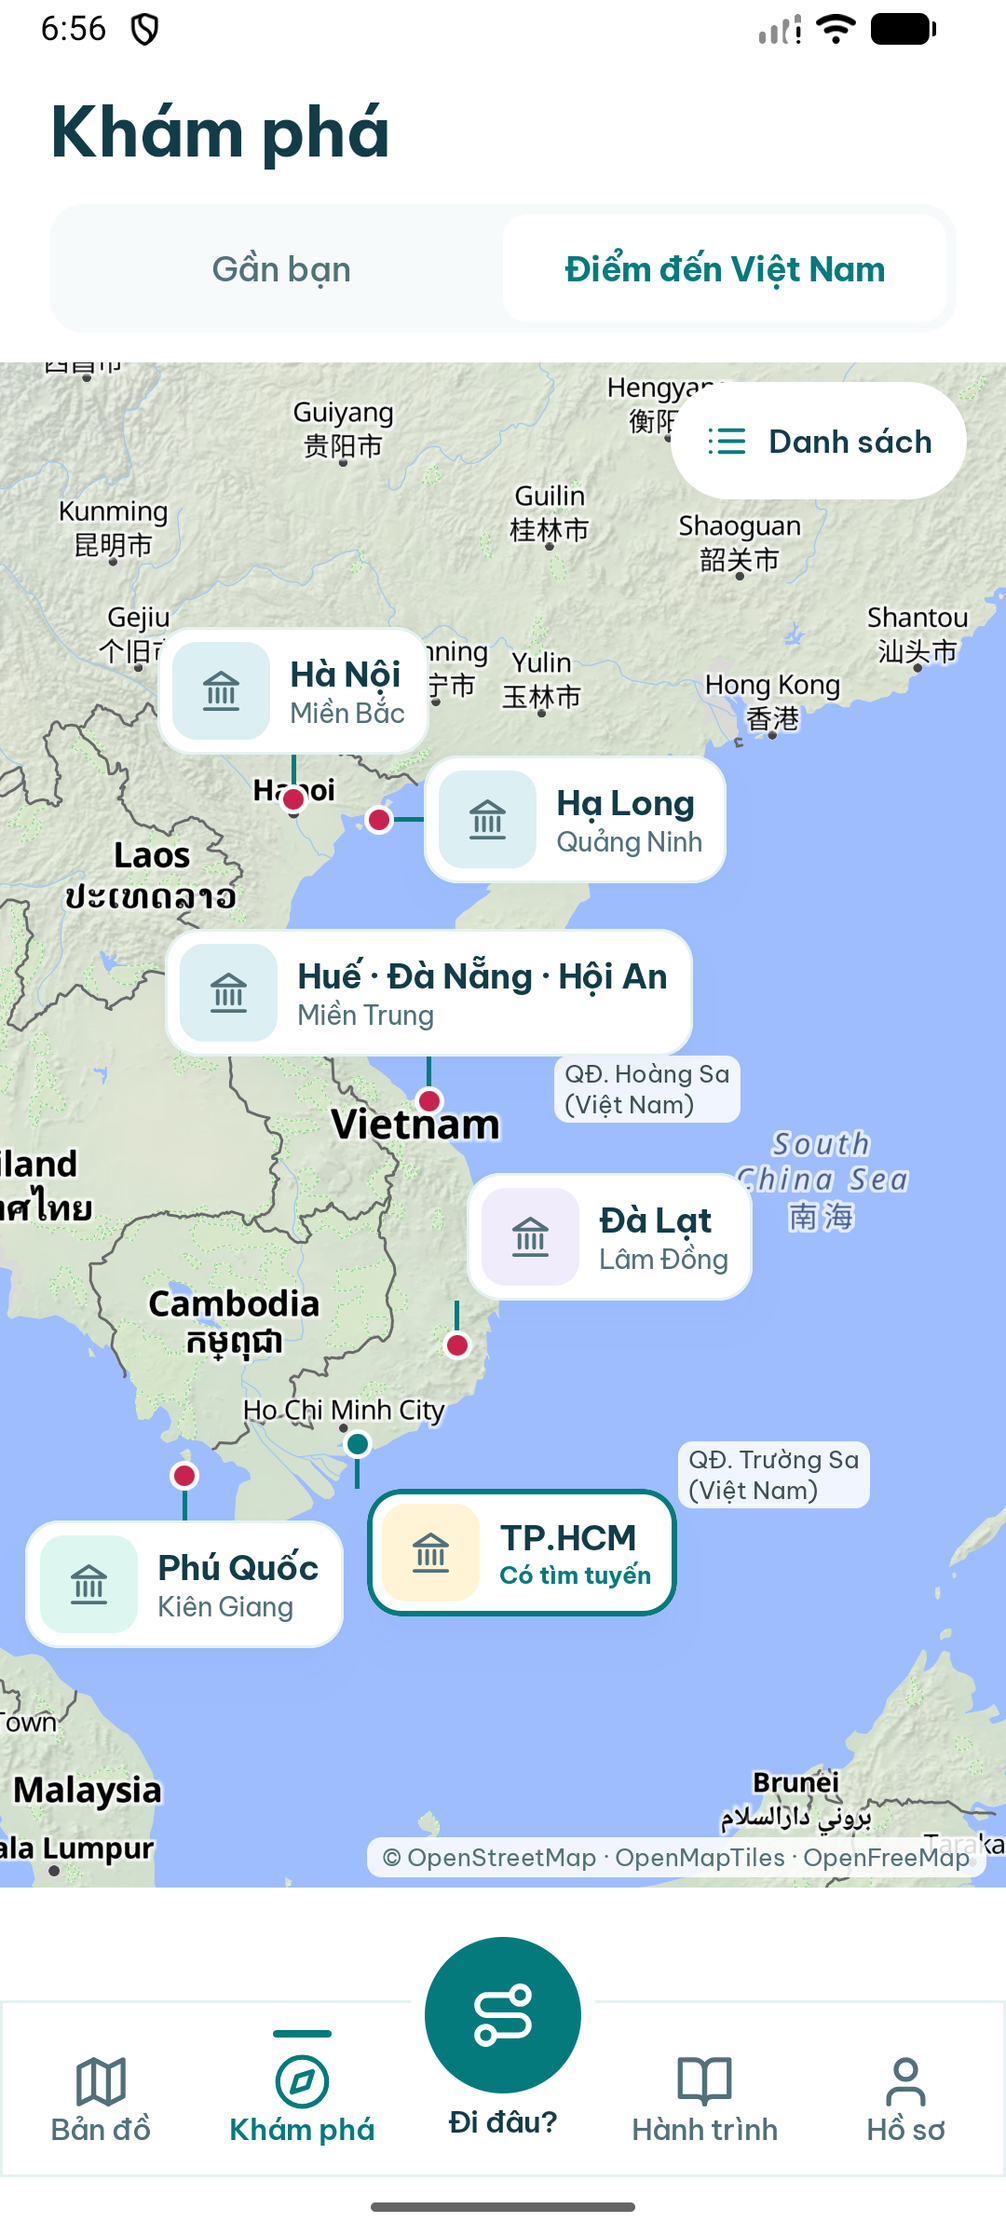
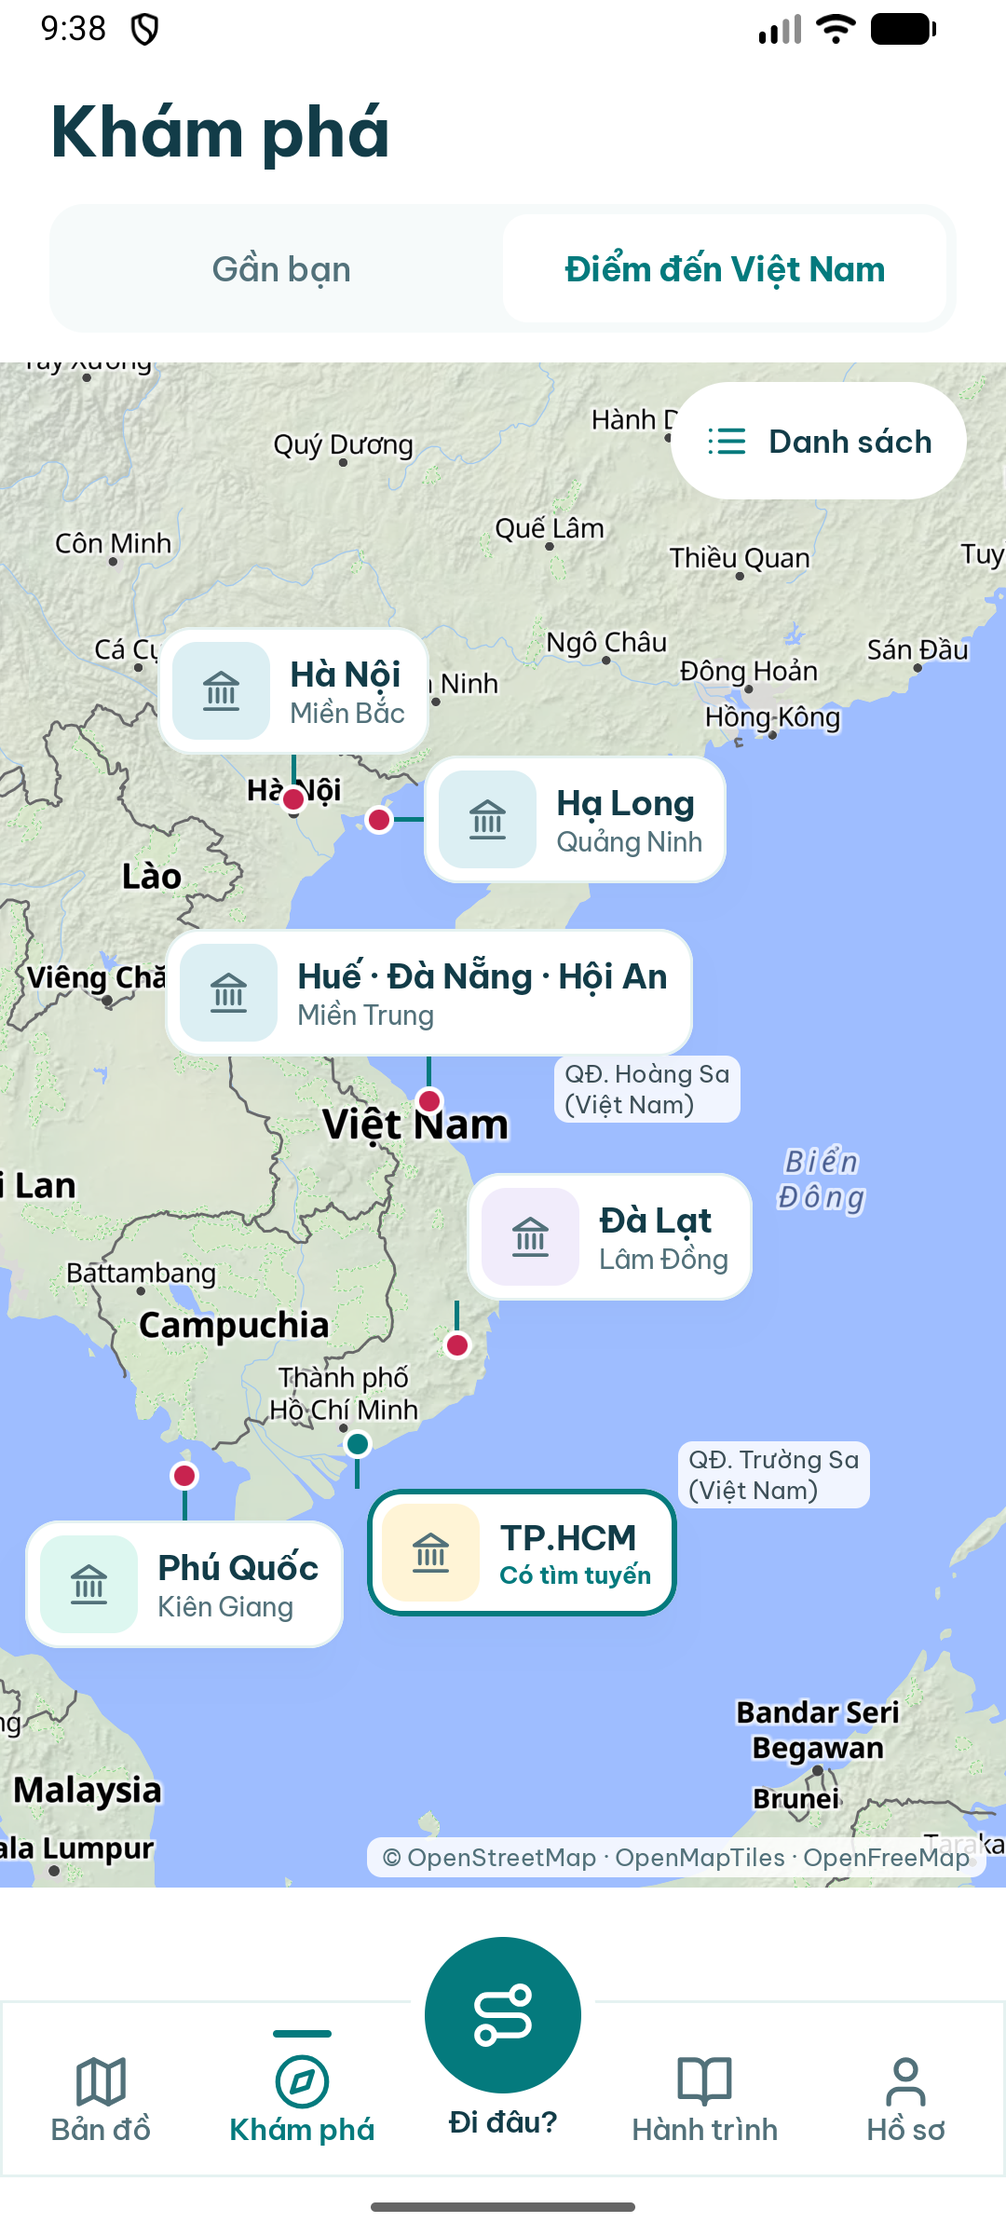
feat(mobile): Vietnamese basemap labels (Biển Đông); map tab no longer draws a found route
Bundled copy of the OpenFreeMap liberty style whose name labels prefer name:vi. MapHome stops passing the selected route and destination to the map. Android E2E 89/89, iOS tests 77/77.

diff --git a/mobile/shared/src/commonMain/kotlin/com/gowander/route/RouteScreens.kt b/mobile/shared/src/commonMain/kotlin/com/gowander/route/RouteScreens.kt
@@ -129,7 +129,6 @@ fun MapHome(
     onOpenPlace: (PlaceSummary) -> Unit,
     onSeeAll: () -> Unit,
 ) {
-    val results = state.phase as? RoutePhase.Results
     var filter by rememberSaveable { mutableStateOf(0) }
     val shown = remember(nearby, filter) { MAP_FILTERS[filter].second.let { slugs -> nearby.filter { slugs == null || it.category?.slug in slugs } } }
     // A card sits above its place (about 100 dp with the stem): skip places whose card would land under the search bar,
@@ -147,7 +146,8 @@ fun MapHome(
             spreadOut(free, minNorthM = CARD_SPACING_M, max = MAX_CARDS, minEastM = CARD_SPACING_EAST_M)
         }
         RouteMap(
-            results?.routes?.getOrNull(results.selected), state.origin, state.destination, location, Modifier.fillMaxSize(), viewSwitch = true,
+            // No route here (design screen 1): a found route belongs to the route screens. The origin only centres the camera.
+            null, state.origin, null, location, Modifier.fillMaxSize(), viewSwitch = true,
             insets = PaddingValues(top = 124.dp, bottom = 72.dp), stateOut = mapRef,
         ) {
             // Other places: small dots, spread out and decorative (too dense to tap safely); "Danh sách" lists them all.
@@ -161,7 +161,6 @@ fun MapHome(
             Row(Modifier.horizontalScroll(rememberScrollState()), horizontalArrangement = Arrangement.spacedBy(8.dp)) {
                 MAP_FILTERS.forEachIndexed { i, (label, _) -> Pill(label, selected = i == filter) { filter = i } }
             }
-            if (results?.assumedData == true) Banner(Strings.DEMO_LABEL)
         }
         Row(Modifier.align(Alignment.BottomCenter).fillMaxWidth().padding(16.dp), verticalAlignment = Alignment.CenterVertically) {
             Row(

diff --git a/mobile/shared/src/commonMain/kotlin/com/gowander/route/RouteMap.kt b/mobile/shared/src/commonMain/kotlin/com/gowander/route/RouteMap.kt
@@ -57,6 +57,7 @@ import androidx.compose.ui.Modifier
 import androidx.compose.ui.graphics.Color
 import androidx.compose.ui.unit.dp
 import com.gowander.api.Route
+import com.gowander.resources.Res
 import kotlin.coroutines.cancellation.CancellationException
 import org.maplibre.compose.camera.CameraFit
 import org.maplibre.compose.camera.CameraPosition
@@ -80,8 +81,10 @@ import org.maplibre.compose.util.DpPadding
 import org.maplibre.spatialk.geojson.BoundingBox
 import org.maplibre.spatialk.geojson.Position
 
-// ADR-025: OpenFreeMap, no API key.
-private const val STYLE_URL = "https://tiles.openfreemap.org/styles/liberty"
+// ADR-025: OpenFreeMap, no API key. The bundled style is OpenFreeMap "liberty" with every name label preferring
+// name:vi ("Biển Đông", "Trung Quốc"); the stock style prints English names. Owner, 15-11-2026.
+// shortcut: a frozen copy of the style, re-download and re-patch it if OpenFreeMap retires its sprite or font paths.
+private val STYLE_URL = Res.getUri("files/map_style.json")
 
 private val STREET_LEVEL = CameraConstraints { maxZoom = 21.0; maxPitch = 65.0 }
 

diff --git a/mobile/shared/src/commonMain/kotlin/com/gowander/ui/Strings.kt b/mobile/shared/src/commonMain/kotlin/com/gowander/ui/Strings.kt
@@ -2,7 +2,6 @@ package com.gowander.ui
 
 /** Every user-facing text of M06 in one place, so English can be added later (ADR-022, ADR-029 §4). */
 object Strings {
-    const val DEMO_LABEL = "DEMO - dữ liệu giả định, không phải lịch chạy chính thức"
     const val TAB_MAP = "Bản đồ"
     const val TAB_DISCOVER = "Khám phá"
     const val TAB_GO = "Đi đâu?"

diff --git a/docs/evidence/ux/ux-e2e-2026-11-15-map-vi.md b/docs/evidence/ux/ux-e2e-2026-11-15-map-vi.md
@@ -1,0 +1,193 @@
+# UX E2E (Android emulator) — 2026-11-15 09:44
+
+**89/89 kiểm tra đạt.** Tiêu chí: `docs/testing/ux-checklist.md`.
+
+## Hành trình
+
+- ✅ Lần đầu mở app: màn chào có logo đầy đủ (biểu tượng + chữ GoWander) và khẩu hiệu
+- ✅ [Màn chào (S0)] T1–T4: kích thước, nhãn, chồng lấn, thanh trạng thái
+- ✅ Bắt đầu: vào thẳng bản đồ, không có màn chọn ngôn ngữ / vị trí
+- ✅ Mở lại app: không hiện màn chào lần nữa
+- ✅ Bản đồ (mẫu màn 1): thẻ quán nổi có sao (mẫu), hàng lọc, nút Danh sách
+- ✅ [Bản đồ chính] T1–T4: kích thước, nhãn, chồng lấn, thanh trạng thái
+- ✅ Thanh dưới 5 mục: Bản đồ · Khám phá · Đi đâu? · Hành trình · Hồ sơ
+- ✅ Không còn nút 'VI' khi chưa có tiếng Anh (ADR-034)
+- ✅ Bấm địa điểm gợi ý: mở trang địa điểm (có nút Chỉ đường)
+- ✅ [Trang địa điểm] T1–T4: kích thước, nhãn, chồng lấn, thanh trạng thái
+- ✅ Chỉ đường: vào danh sách tuyến + dòng 'Thông tin về …'
+- ✅ Back từ danh sách tuyến: về đúng trang địa điểm
+- ✅ Back lần nữa: về bản đồ
+- ✅ Bấm 'Loại bản đồ': có 2D / 3D / Vệ tinh
+- ✅ Bấm Vệ tinh: báo chưa có ảnh vệ tinh, không đổi bản đồ
+- ✅ Chọn 3D: bảng tự đóng
+- ✅ Bấm ra ngoài bảng: bảng đóng
+- ✅ Lọc Cà phê rồi Tất cả: thẻ quán hiện lại
+- ✅ Khám phá (mẫu màn 8): 2 tab, hành trình gợi ý
+- ✅ [Khám phá] T1–T4: kích thước, nhãn, chồng lấn, thanh trạng thái
+- ✅ Khám phá: bấm địa điểm mở sheet địa điểm (mẫu màn 2), không tự nhảy sang tuyến (T4)
+- ✅ Sheet địa điểm › Đánh giá: điểm sao (mẫu) + nút Viết đánh giá
+- ✅ Bấm Lưu: nút đổi thành Bỏ lưu
+- ✅ Back từ trang địa điểm: về danh sách Khám phá
+- ✅ Điểm đến Việt Nam (mẫu màn 13): bản đồ có thẻ vùng
+- ✅ [Điểm đến Việt Nam] T1–T4: kích thước, nhãn, chồng lấn, thanh trạng thái
+- ✅ Cẩm nang TP.HCM (mẫu màn 14): bìa + mục lục
+- ✅ [Cẩm nang TP.HCM] T1–T4: kích thước, nhãn, chồng lấn, thanh trạng thái
+- ✅ Bấm món (mẫu màn 15): mô tả + quán gợi ý
+- ✅ [Món ăn] T1–T4: kích thước, nhãn, chồng lấn, thanh trạng thái
+- ✅ Thêm vào kế hoạch: mở Tự lên kế hoạch (mẫu màn 16) có món vừa thêm
+- ✅ [Tự lên kế hoạch] T1–T4: kích thước, nhãn, chồng lấn, thanh trạng thái
+- ✅ Xoá một điểm: điểm biến mất, giờ tính lại
+- ✅ Lưu vào Hồ sơ: quay về màn trước
+- ✅ Hành trình (mẫu màn 9): chuyến gợi ý + chọn thời gian
+- ✅ [Hành trình] T1–T4: kích thước, nhãn, chồng lấn, thanh trạng thái
+- ✅ Kế hoạch chuyến (mẫu màn 10): các điểm đánh số
+- ✅ [Kế hoạch chuyến] T1–T4: kích thước, nhãn, chồng lấn, thanh trạng thái
+- ✅ Hồ sơ (mẫu màn 11): portfolio có bìa + nút Thiết kế
+- ✅ [Hồ sơ] T1–T4: kích thước, nhãn, chồng lấn, thanh trạng thái
+- ✅ Hồ sơ › Kế hoạch (mẫu màn 17)
+- ✅ [Hồ sơ Kế hoạch] T1–T4: kích thước, nhãn, chồng lấn, thanh trạng thái
+- ✅ Thiết kế portfolio (mẫu màn 12)
+- ✅ [Thiết kế portfolio] T1–T4: kích thước, nhãn, chồng lấn, thanh trạng thái
+- ✅ Hồ sơ › Cài đặt: chế độ khách + nguồn dữ liệu và giấy phép
+- ✅ Đi đâu?: ô tìm + dòng 'Từ: … · Đổi' + 'Chọn trên bản đồ' (mẫu màn 3)
+- ✅ [Đi đâu?] T1–T4: kích thước, nhãn, chồng lấn, thanh trạng thái
+- ✅ Gõ tên: kết quả nằm dưới tiêu đề 'Kết quả'
+- ✅ Chọn điểm đến: vào thẳng danh sách tuyến, 5 tab phương tiện
+- ✅ Tab Buýt: mỗi tuyến ghi rõ phần đi bộ ra/vào trạm ('Đi bộ tổng … phút')
+- ✅ Danh sách tuyến: sửa điểm đi / điểm đến / đổi chiều ngay ở đầu màn
+- ✅ Không lặp nhãn 'Nhanh nhất' trên thẻ (chỉ còn chip sắp xếp)
+- ✅ Chuyến giống nhau gộp một thẻ (có 'Chuyến sau')
+- ✅ Bấm 'Đi ngay ▾': mở lựa chọn giờ
+- ✅ Bấm lại 'Đi ngay ▴': lựa chọn giờ đóng lại
+- ✅ [Danh sách tuyến] T1–T4: kích thước, nhãn, chồng lấn, thanh trạng thái
+- ✅ Chọn tab Ô tô: có kết quả ngay, không phải bấm thêm
+- ✅ Ô tô: không hiện chip/nhãn 'Nhanh nhất / Ít đi bộ' vô nghĩa
+- ✅ Chi tiết tuyến: 2 nút Bắt đầu · Xem từng bước (không còn 'Xem trước' riêng)
+- ✅ Chi tiết tuyến: thanh tab dưới ẩn (màn con)
+- ✅ [Chi tiết tuyến] T1–T4: kích thước, nhãn, chồng lấn, thanh trạng thái
+- ✅ Bấm phần đầu thẻ: thẻ mở rộng, nhãn đổi thành 'Thu gọn'
+- ✅ Chi tiết tuyến như mẫu màn 5: dòng thời gian các chặng đến điểm đến, không có thanh phương tiện
+- ✅ Xem từng bước: chia đôi, 3D trên có ︿ / ﹀, 2D dưới, thẻ bước
+- ✅ Xem từng bước: bản đồ dưới có 2D | 3D, nút '▶▶ Chạy' có chữ (mẫu màn 6)
+- ✅ [Xem từng bước] T1–T4: kích thước, nhãn, chồng lấn, thanh trạng thái
+- ✅ Chọn 3D ở bản đồ dưới: nút 3D được chọn (báo cho trình đọc màn hình)
+- ✅ Bấm ▶▶: tự chạy, nút đổi thành Tạm dừng
+- ✅ Bấm Tạm dừng: dừng lại
+- ✅ Nút Sau: đúng +1 (Bước 4/15 · còn 480 m -> Bước 5/15 · còn 1,0 km)
+- ✅ Vuốt trái trên thẻ: sang đúng bước kế tiếp (Bước 5/15 · còn 1,0 km -> Bước 6/15 · còn 1,6 km)
+- ✅ Nút danh sách: mở các bước rẽ
+- ✅ Chọn một bước trong danh sách: về màn Xem từng bước tại bước đó
+- ✅ Back từ Xem từng bước: về Chi tiết tuyến (không qua danh sách)
+- ✅ Bắt đầu: băng chỉ hướng + nút Thoát
+- ✅ Dẫn đường: nút kiểu bản đồ dưới ghi '2D' (mẫu màn 7)
+- ✅ [Dẫn đường] T1–T4: kích thước, nhãn, chồng lấn, thanh trạng thái
+- ✅ Bấm nút '2D': bản đồ dưới đổi sang 3D
+- ✅ Dẫn đường: nút loa (mẫu màn 7), đủ lớn để bấm
+- ✅ Bấm loa lần 1: Chỉ đọc cảnh báo
+- ✅ Bấm loa lần 2: Tắt
+- ✅ Bấm loa lần 3: Bật lại
+- ✅ Dẫn đường › Đường đi: danh sách các bước rẽ
+- ✅ [Đường đi] T1–T4: kích thước, nhãn, chồng lấn, thanh trạng thái
+- ✅ Chạm một bước: mở Xem từng bước (chia đôi)
+- ✅ Back trong Xem từng bước (mở từ Đường đi): về Đường đi
+- ✅ Back từ Đường đi: về màn dẫn đường
+- ✅ Thoát: về chi tiết tuyến, tuyến vẫn còn
+- ✅ Back từ danh sách tuyến: về bản đồ, thanh tab dưới hiện lại
+
+## Kiểm tra từng màn (ux_audit.py)
+
+### Màn chào (S0)
+
+1 phần tử bấm được · **ĐẠT**
+
+
+### Bản đồ chính
+
+15 phần tử bấm được · **ĐẠT**
+
+
+### Trang địa điểm
+
+6 phần tử bấm được · **ĐẠT**
+
+
+### Khám phá
+
+17 phần tử bấm được · **ĐẠT**
+
+
+### Điểm đến Việt Nam
+
+12 phần tử bấm được · **ĐẠT**
+
+
+### Cẩm nang TP.HCM
+
+8 phần tử bấm được · **ĐẠT**
+
+
+### Món ăn
+
+5 phần tử bấm được · **ĐẠT**
+
+
+### Tự lên kế hoạch
+
+15 phần tử bấm được · **ĐẠT**
+
+
+### Hành trình
+
+12 phần tử bấm được · **ĐẠT**
+
+
+### Kế hoạch chuyến
+
+3 phần tử bấm được · **ĐẠT**
+
+
+### Hồ sơ
+
+9 phần tử bấm được · **ĐẠT**
+
+
+### Hồ sơ Kế hoạch
+
+12 phần tử bấm được · **ĐẠT**
+
+
+### Thiết kế portfolio
+
+9 phần tử bấm được · **ĐẠT**
+
+
+### Đi đâu?
+
+5 phần tử bấm được · **ĐẠT**
+
+
+### Danh sách tuyến
+
+15 phần tử bấm được · **ĐẠT**
+
+
+### Chi tiết tuyến
+
+5 phần tử bấm được · **ĐẠT**
+
+
+### Xem từng bước
+
+9 phần tử bấm được · **ĐẠT**
+
+
+### Dẫn đường
+
+4 phần tử bấm được · **ĐẠT**
+
+
+### Đường đi
+
+15 phần tử bấm được · **ĐẠT**
+
+

diff --git a/docs/changes/change-15-11-2026.md b/docs/changes/change-15-11-2026.md
@@ -76,3 +76,29 @@
 - **Bằng chứng:** `./gradlew :shared:testAndroidHostTest :androidApp:assembleDebug` đạt; E2E Android **89/89** (chạy lại sau khi sửa); `:shared:iosSimulatorArm64Test` 77 test, 0 lỗi; ảnh `docs/evidence/ux2/android-diem-den-viet-nam.png` (đủ 6 thẻ, không thẻ nào che nhau hay bị cắt). **Ảnh iOS của màn này: chưa kiểm chứng.**
 - **Ảnh hưởng / rủi ro:** nền bản đồ của OpenFreeMap vẫn in "South China Sea" và tên nước ngoài bằng tiếng Anh; muốn ghi "Biển Đông" cần style bản đồ riêng hoặc nhà cung cấp khác (chưa làm). Danh sách vùng và nội dung cẩm nang vẫn là dữ liệu mẫu.
 - **Việc tiếp theo:** chủ dự án quyết định có cần đổi nhãn nền bản đồ sang tiếng Việt trước pilot không; P3.
+
+## 5. Nền bản đồ ghi tên tiếng Việt ("Biển Đông" thay "South China Sea")
+
+- **Milestone / nhánh:** UX-2 · `feat/ux-2-redesign`.
+- **Người / agent thực hiện:** Claude Code. Chủ dự án: "Muốn ghi 'Biển Đông' phải đổi ngay".
+- **Thay đổi gì / ở đâu:**
+  - `mobile/shared/src/commonMain/composeResources/files/map_style.json` (mới): bản sao style "liberty" của OpenFreeMap, 20 lớp nhãn tên đổi sang ưu tiên `name:vi`, không có thì dùng cách chọn tên cũ. Nhãn số hiệu đường giữ nguyên.
+  - `route/RouteMap.kt`: `STYLE_URL` trỏ tới file đóng gói (`Res.getUri`) thay cho địa chỉ style trên mạng. Mọi màn có bản đồ đều dùng chung.
+  - `PIPELINE.md`: dòng bản đồ Việt Nam trong bảng dữ liệu mẫu thành REAL.
+- **Vì sao:** style gốc in "South China Sea 南海" và tên nước bằng tiếng Anh; dữ liệu nền (OpenStreetMap) đã có sẵn tên tiếng Việt nên không cần đổi nhà cung cấp.
+- **Bằng chứng:**
+  - Kiểm ô bản đồ z3–z5 quanh Biển Đông: có "Biển Đông", "Trung Quốc", "Lào", "Campuchia", "Thái Lan" trong `name:vi`.
+  - `./gradlew :shared:compileAndroidMain :shared:testAndroidHostTest` đạt; E2E Android **89/89** (`docs/evidence/ux/ux-e2e-2026-11-15-map-vi.md`; lượt đầu ngay sau khi cài rớt 3 bước, chạy lại đạt đủ). Ảnh `docs/evidence/ux2/android-diem-den-viet-nam.png`: "Biển Đông", "Lào", "Campuchia", "Côn Minh"; tên đường ở TP.HCM không đổi (`android-ban-do-chinh.png`).
+  - iOS: `:shared:iosSimulatorArm64Test` 77 test, 0 lỗi; `xcodebuild` BUILD SUCCEEDED; app trên simulator nạp được style đóng gói (`docs/evidence/ux2/ios-ban-do-chinh.png`). **Chữ "Biển Đông" trên iOS: chưa kiểm chứng bằng ảnh** (chưa bấm được tới màn Điểm đến Việt Nam trên simulator); cùng một file style với Android.
+- **Ảnh hưởng / rủi ro:** style là bản chụp cố định; nếu OpenFreeMap đổi đường dẫn biểu tượng hoặc phông thì phải tải lại và vá lại. Địa danh nước ngoài nào chưa có tên tiếng Việt trong OpenStreetMap vẫn hiện tên gốc.
+- **Việc tiếp theo:** chủ dự án xem màn Điểm đến Việt Nam trên iOS; P3.
+
+## 6. Tab Bản đồ không còn vẽ tuyến đã tìm
+
+- **Milestone / nhánh:** UX-2 · `feat/ux-2-redesign`.
+- **Người / agent thực hiện:** Claude Code. Chủ dự án gửi ảnh: "tại sao ở tab bản đồ lại có hiển thị đường đi".
+- **Thay đổi gì / ở đâu:** `route/RouteScreens.kt` (`MapHome`): không truyền tuyến và điểm đến vào bản đồ nữa (còn sót từ màn chính cũ, trước UX-2); điểm xuất phát vẫn dùng để đưa camera về vị trí. Bỏ dòng nhãn "DEMO" chỉ hiện kèm tuyến ở tab này; `ui/Strings.kt`: xoá `DEMO_LABEL` (không còn nơi dùng). Ghi chú giờ ước tính (`ASSUMED_NOTE`) ở màn danh sách tuyến và chi tiết tuyến giữ nguyên.
+- **Vì sao:** mẫu màn 1 chỉ có quán và bộ lọc; tuyến thuộc về các màn tìm đường.
+- **Bằng chứng:** `./gradlew :shared:testAndroidHostTest :androidApp:installDebug` đạt; E2E Android **89/89** (`docs/evidence/ux/ux-e2e-2026-11-15-map-vi.md`). Sau khi sửa chạy 5 lượt: 2 lượt đạt 89/89, 3 lượt rớt ở ba bước khác nhau (màn chào, nút Vệ tinh, cẩm nang), **nguyên nhân chưa kiểm chứng** (nghi emulator bị thao tác cùng lúc). iOS: `:shared:iosSimulatorArm64Test` 77 test, 0 lỗi; **ảnh iOS sau khi sửa: chưa kiểm chứng.**
+- **Ảnh hưởng / rủi ro:** sau khi tìm tuyến rồi quay về tab Bản đồ, tuyến không hiện ở đó; xem lại tuyến qua "Đi đâu?".
+- **Việc tiếp theo:** chủ dự án commit và push; P3.

diff --git a/PIPELINE.md b/PIPELINE.md
@@ -192,7 +192,7 @@ Every dataset shown in the pilot has a register row with source, licence and sta
   | All photos (places, trips, regions, dishes, portfolio) | `ui/Pieces.kt` `MockPhoto` (tinted tile + icon, "Ảnh mẫu") | licensed photos with credit (DATA-1 §4) | MOCK |
   | Suggested trips (Journey, Discover card, region guide, Trip screen) | `MOCK_TRIPS` (real coordinates; "Bắt đầu chuyến" uses the real router) | editor-curated trips (CONTENT) | MOCK |
   | Regions, region guide text, seasons, dishes, sample shops, story card | `MOCK_REGIONS`, `MOCK_GUIDE_INTRO`, `MOCK_OTHER_REGION_INTRO`, `MOCK_DISHES`, `MOCK_STORY_*` | curated content with sources (DATA-1 §4, CONTENT) | MOCK |
-  | Map of Vietnam (screen 13) | real map since 15-11-2026 (OpenFreeMap / OSM tiles, regions at real coordinates, Hoàng Sa and Trường Sa labelled by the app); the basemap still prints "South China Sea" and foreign names in English | Vietnamese basemap labels ("Biển Đông"), own style or provider | PARTLY REAL |
+  | Map of Vietnam (screen 13) | real map since 15-11-2026 (OpenFreeMap / OSM tiles, regions at real coordinates, Hoàng Sa and Trường Sa labelled by the app); basemap labels prefer Vietnamese names ("Biển Đông") through the bundled style `composeResources/files/map_style.json` | none for the map itself; the bundled style is a frozen copy of OpenFreeMap "liberty", refresh it if their sprite or font paths change | REAL |
   | Portfolio: name, stats, about, featured trip, contributions, moments, section visibility | `MockPortfolio` | user account data (COM-1) | MOCK |
   | Plans: sample upcoming/draft/done plans and planner suggestions | `MOCK_PLANS`, `MOCK_PLAN_SUGGESTIONS`; user-made plans and saved places live in `home/AppStore.kt`, memory only | on-device storage (P5 storage ADR) | MOCK |
   | Buttons that only explain themselves: Chia sẻ, Viết đánh giá, Video 1:30, plan date / time / mode, portfolio Lưu | short notice via `LocalNotice` | COM-1 / P5 / CONTENT | MOCK (UI only) |
